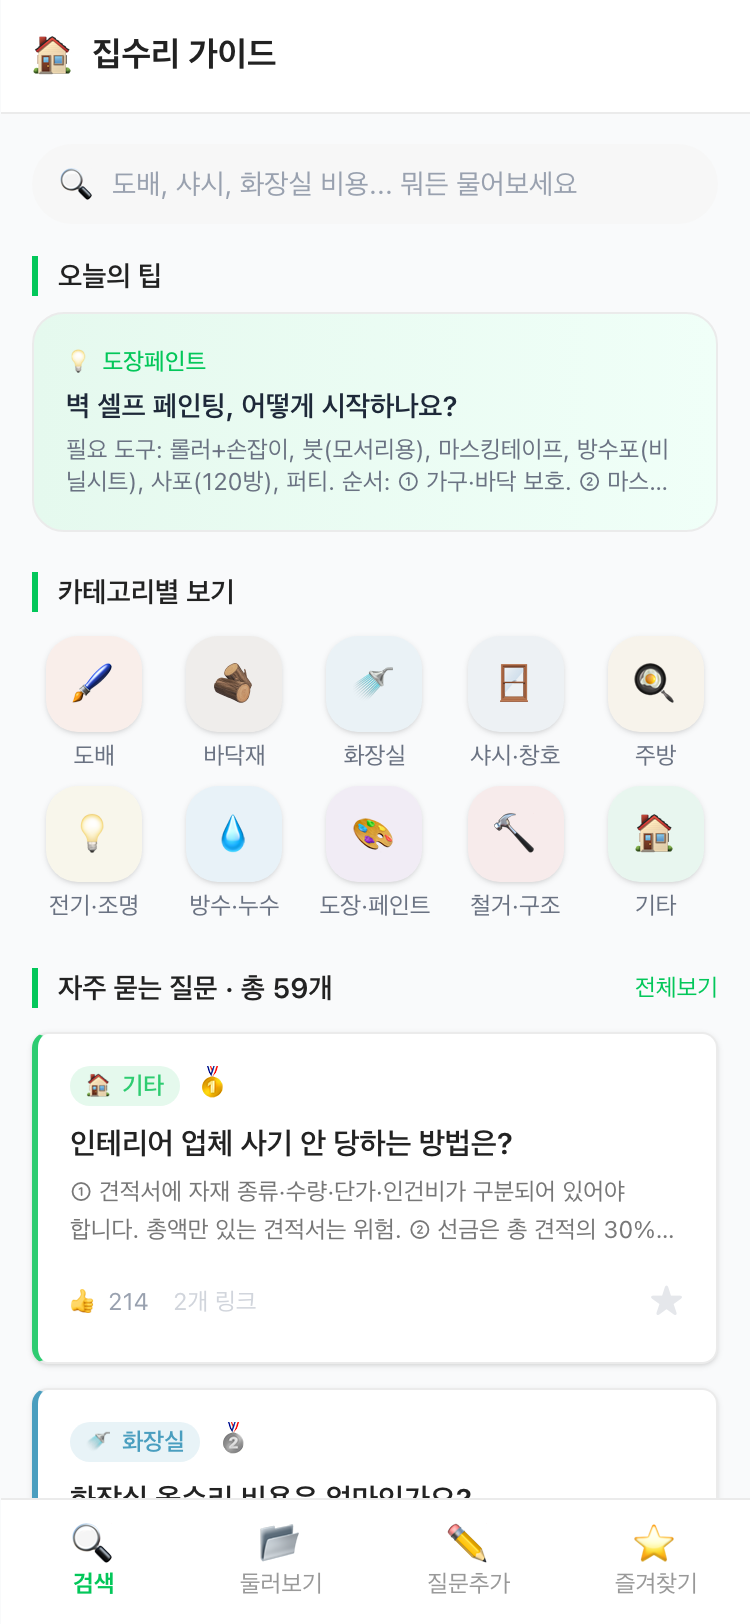
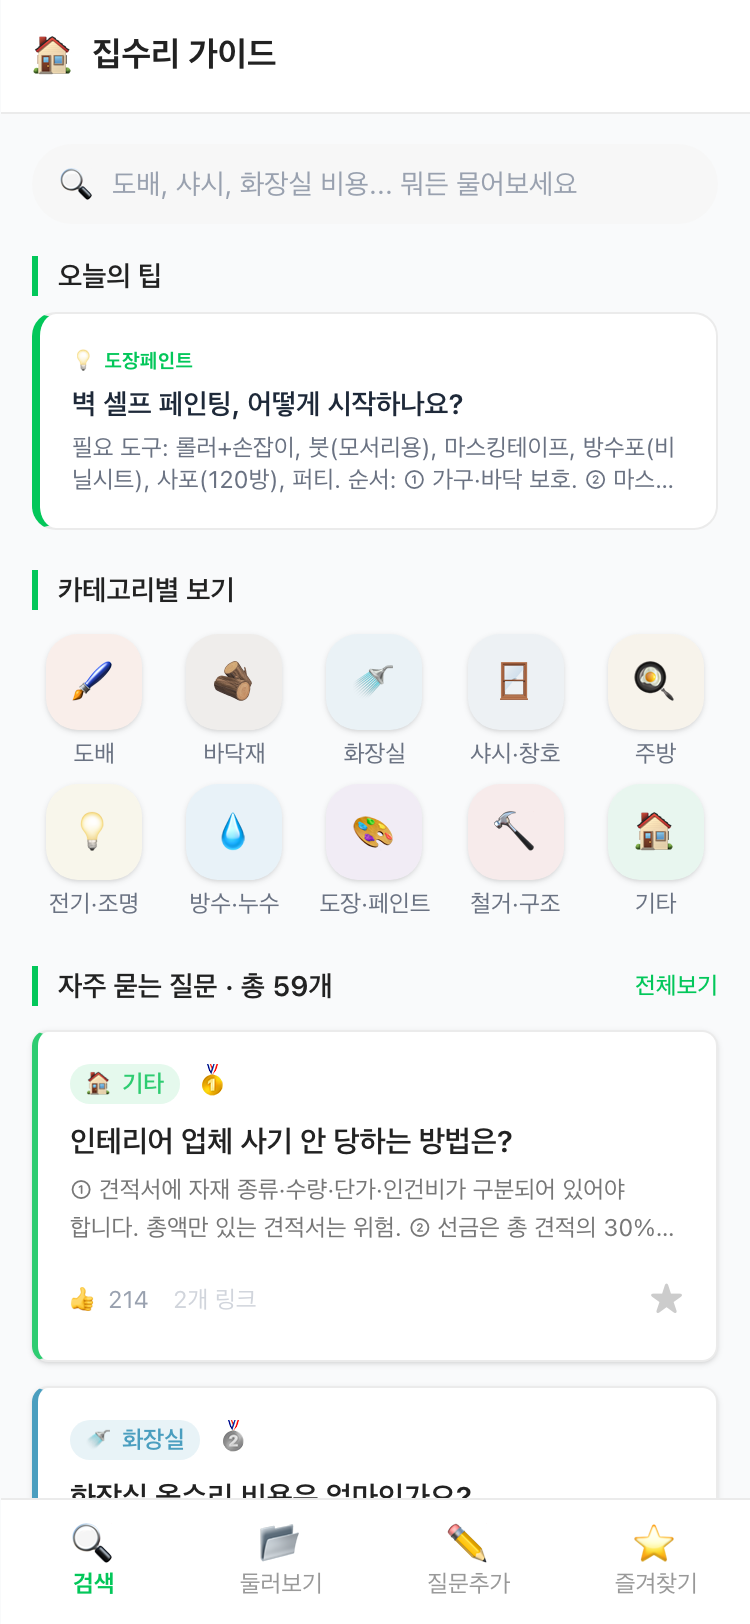
design: 사이클 4 — 오늘의팁·관련링크·카테고리 세부 폴리시
- 오늘의 팁: gradient → 흰 배경 + 그린 4px 왼쪽 accent (뉴스 카드 스타일)
- QADetail 관련 링크: active 상태 그린 틴트, 화살표 그린 굵게
- BrowsePage 카테고리 텍스트 색 강화 (#222222 / #777777)
- 정렬 셀렉트: focus 그린 border
- 즐겨찾기 별: 전통 노란색 (text-yellow-400)
- '← 카테고리 목록' 뒤로가기 색 통일
- CostCalc 라벨 semibold + primary text color

Confidence: high
Scope-risk: narrow

diff --git a/src/components/browse/BrowsePage.tsx b/src/components/browse/BrowsePage.tsx
@@ -25,7 +25,7 @@ export function BrowsePage() {
       <div className="px-4">
         <button
           onClick={() => setSelectedCategory(null)}
-          className="flex items-center gap-1.5 text-sm text-gray-500 mb-4 active:opacity-70"
+          className="flex items-center gap-1.5 text-sm text-[#555555] mb-4 active:opacity-70"
         >
           ← 카테고리 목록
         </button>
@@ -41,7 +41,7 @@ export function BrowsePage() {
           <select
             value={sortBy}
             onChange={(e) => setSortBy(e.target.value as 'likes' | 'default')}
-            className="text-xs bg-gray-50 border border-gray-100 rounded-lg px-2 py-1.5 text-gray-600 outline-none"
+            className="text-xs bg-white border border-[#EBEBEB] rounded-lg px-2 py-1.5 text-[#555555] outline-none focus:border-[#03C75A]"
           >
             <option value="likes">인기순</option>
             <option value="default">기본순</option>
@@ -82,8 +82,8 @@ export function BrowsePage() {
                 {cat.icon}
               </div>
               <div className="flex-1">
-                <div className="text-sm font-semibold text-gray-800">{cat.name}</div>
-                <div className="text-xs text-gray-400">{cat.description}</div>
+                <div className="text-sm font-semibold text-[#222222]">{cat.name}</div>
+                <div className="text-xs text-[#777777]">{cat.description}</div>
               </div>
               <div className="text-right shrink-0">
                 <div className="text-xs font-semibold px-2 py-0.5 rounded-full bg-gray-100 text-[#555555]">

diff --git a/src/components/home/SearchPage.tsx b/src/components/home/SearchPage.tsx
@@ -146,9 +146,9 @@ export function SearchPage() {
             <h2 className="text-sm font-semibold text-[#222222] pl-2.5 border-l-[3px] border-[#03C75A] mb-2">오늘의 팁</h2>
             <button
               onClick={() => setSelectedItem(todayTip)}
-              className="w-full bg-gradient-to-r from-[#E5F9EE] to-[#F0FFF8] border border-[#EBEBEB] rounded-2xl p-4 text-left active:scale-[0.98] transition-transform"
+              className="w-full bg-white border border-[#EBEBEB] border-l-[4px] border-l-[#03C75A] rounded-xl p-4 text-left active:scale-[0.98] transition-transform"
             >
-              <div className="text-xs text-[#03C75A] font-medium mb-1">💡 {todayTip.category}</div>
+              <div className="text-[10px] font-bold text-[#03C75A] uppercase tracking-wide mb-1">💡 {todayTip.category}</div>
               <div className="text-sm font-semibold text-gray-800 mb-1">{todayTip.question}</div>
               <div className="text-xs text-gray-500 line-clamp-2">{todayTip.answer}</div>
             </button>
@@ -179,7 +179,7 @@ export function SearchPage() {
             <h2 className="text-sm font-semibold text-[#222222] pl-2.5 border-l-[3px] border-[#03C75A]">자주 묻는 질문 · 총 {KNOWLEDGE_BASE.length + userQuestions.length}개</h2>
             <button
               onClick={() => setSelectedItem(null)}
-              className="text-xs text-[#03C75A]"
+              className="text-xs text-[#03C75A] font-medium"
             >
               전체보기
             </button>

diff --git a/src/components/qa/QADetail.tsx b/src/components/qa/QADetail.tsx
@@ -91,11 +91,11 @@ export function QADetail() {
                 href={link.url}
                 target="_blank"
                 rel="noopener noreferrer"
-                className="flex items-center gap-2 bg-white border border-gray-100 rounded-xl px-3 py-2.5 text-sm text-gray-700 active:bg-gray-50 shadow-sm"
+                className="flex items-center gap-2 bg-white border border-[#EBEBEB] rounded-lg px-3 py-2.5 text-sm text-[#222222] active:bg-[#E5F9EE] active:text-[#03C75A]"
               >
                 <span className="text-base">{linkIcon(link.type)}</span>
                 <span className="flex-1 truncate">{link.title}</span>
-                <span className="text-gray-300 text-xs">→</span>
+                <span className="text-[#03C75A] text-xs font-bold">→</span>
               </a>
             ))}
           </div>

diff --git a/src/components/browse/CostCalc.tsx b/src/components/browse/CostCalc.tsx
@@ -41,7 +41,7 @@ export function CostCalc() {
       {open && (
         <div className="bg-white border border-gray-100 rounded-2xl p-4 mt-2 shadow-sm">
           <div className="mb-3">
-            <label className="text-xs font-medium text-gray-600 block mb-1.5">공사 종류</label>
+            <label className="text-xs font-semibold text-[#222222] block mb-1.5">공사 종류</label>
             <div className="grid grid-cols-3 gap-1.5">
               {WORK_TYPES.map((w) => (
                 <button
@@ -61,7 +61,7 @@ export function CostCalc() {
           </div>
 
           <div className="mb-4">
-            <label className="text-xs font-medium text-gray-600 block mb-1.5">
+            <label className="text-xs font-semibold text-[#222222] block mb-1.5">
               면적 (평)
             </label>
             <input

diff --git a/src/components/qa/QACard.tsx b/src/components/qa/QACard.tsx
@@ -84,7 +84,7 @@ export function QACard({ item, compact = false, rank }: Props) {
           onClick={() => toggleFavorite(item.id)}
           className={clsx(
             'text-lg transition-transform active:scale-125',
-            isFav ? 'text-[#03C75A]' : 'text-gray-200',
+            isFav ? 'text-yellow-400' : 'text-[#CCCCCC]',
           )}
           aria-label={isFav ? '즐겨찾기 해제' : '즐겨찾기 추가'}
         >
